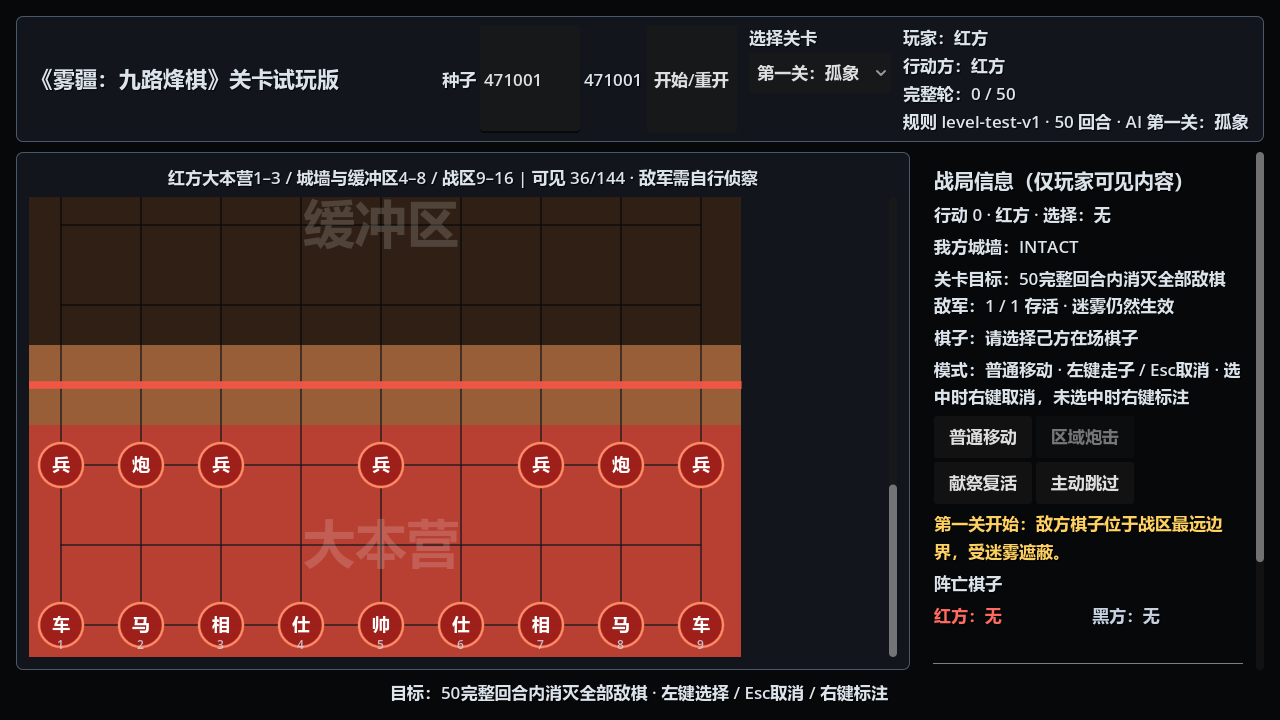
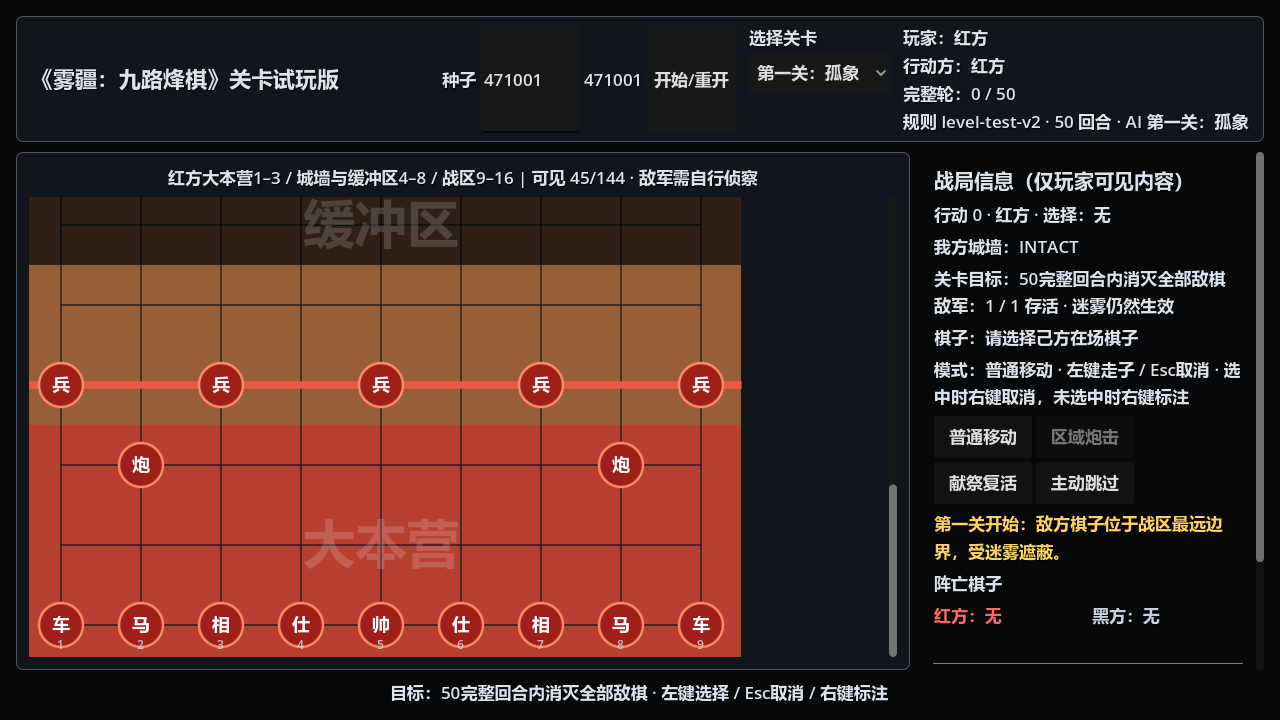
feat: 修正五兵部署至我方城墙线

diff --git a/evidence/level_test/validation-summary.md b/evidence/level_test/validation-summary.md
@@ -16,7 +16,7 @@
 ## 覆盖结论
 
 - 三关敌军数量、类型和 Y=16 初始位置正确。
-- 我方全部 16 枚棋子位于大本营 Y=1–3。
+- 我方 11 枚非兵棋子位于大本营 Y=1–3；五个兵位于红方城墙线 Y=4 的标准兵位。
 - 试玩界面与行动候选均限制为 Y=1–16，共 144 个交互点。
 - 敌军初始受迷雾遮蔽；敌方 AI 审计确认只依赖 PlayerView。
 - 安全优先随机用例在 20 个固定种子下均排除了已知受攻击落点。
@@ -26,8 +26,8 @@
 ## Windows 构建
 
 - 文件：`builds/windows/Veilfront_Xiangqi_Siege_Level_Test.exe`
-- 大小：110,076,304 字节
[1 lines of base64/hex data omitted]
+- 大小：110,077,776 字节
[1 lines of base64/hex data omitted]
 - 导出：Godot release，嵌入 PCK，单文件。
 - 进程冒烟：导出程序启动 5 秒后仍正常运行，通过。
 - 签名：未签名；Windows SmartScreen 可能提示。

diff --git a/docs/level-test/playtest-guide.md b/docs/level-test/playtest-guide.md
@@ -10,7 +10,7 @@
 - 第二关：敌方 2 枚象，部署在战区最远边界 Y=16。
 - 第三关：敌方 2 枚马，部署在战区最远边界 Y=16。
 
-我方 16 枚棋子全部位于大本营 Y=1–3。试玩棋盘只开放我方大本营、我方缓冲区和战区（Y=1–16），迷雾、城墙以及棋子在缓冲区和战区中的特殊能力继续沿用现有规则核心。
+我方车、马、相、士、帅和炮共 11 枚棋子位于大本营 Y=1–3；五个兵位于红方城墙线 `(1,4)、(3,4)、(5,4)、(7,4)、(9,4)`。试玩棋盘只开放我方大本营、我方缓冲区和战区（Y=1–16），迷雾、城墙以及棋子在缓冲区和战区中的特殊能力继续沿用现有规则核心。
 
 ## 敌方行动
 
